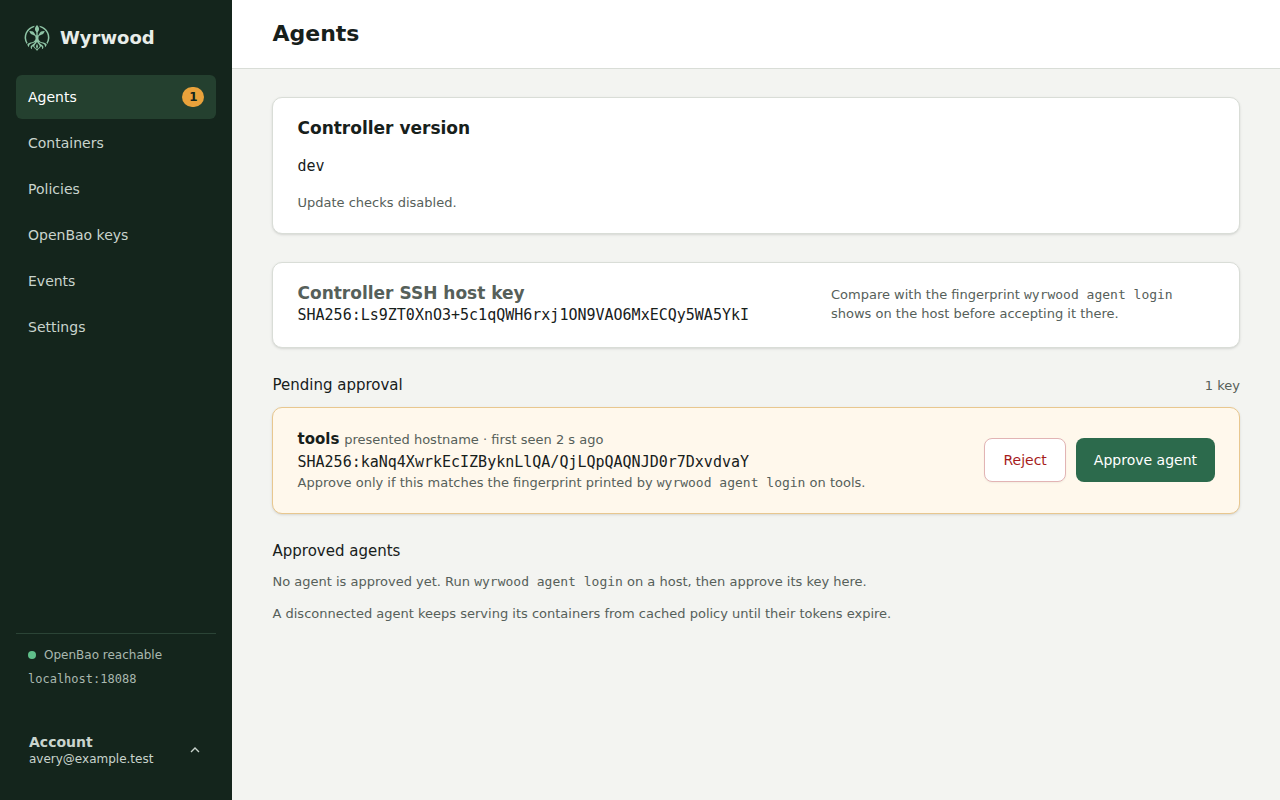
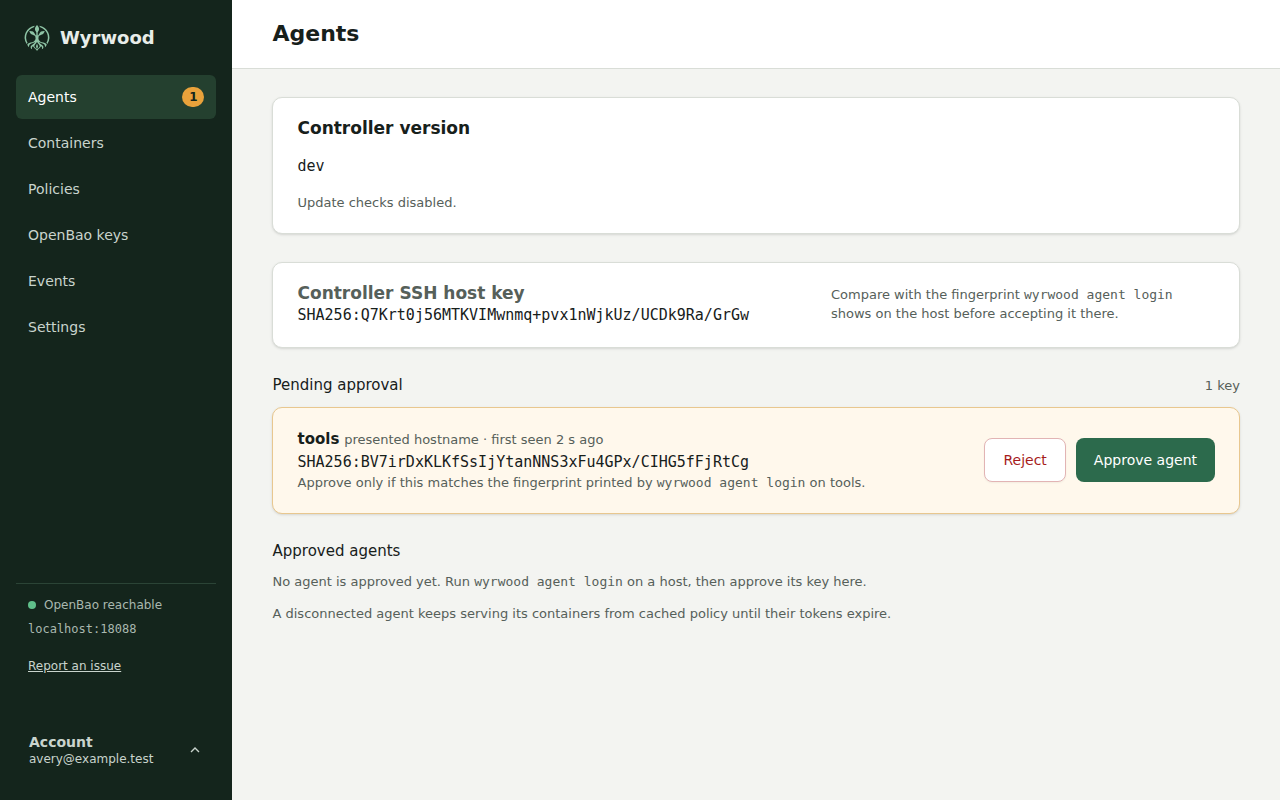
feat(web): add a Report an issue link to the sidebar
An operator can reach the GitHub new-issue form from every authenticated
page. The URL has no query data and the link sends no referrer, so that
no site value leaves through it.

Changed region(s): [[0.0, 0.75, 0.125, 0.875], [0.2812, 0.5625, 0.5938, 0.5938], [0.2812, 0.375, 0.5938, 0.4062]]

diff --git a/internal/web/frontend/src/app.test.tsx b/internal/web/frontend/src/app.test.tsx
@@ -162,6 +162,9 @@ describe("sign-in", () => {
       expect(form).toHaveAttribute("action", "/auth/start");
       expect(form).toHaveAttribute("method", "post");
       expect(screen.queryByRole("navigation")).not.toBeInTheDocument();
+      expect(
+        screen.queryByRole("link", { name: /Report an issue/ }),
+      ).not.toBeInTheDocument();
       if (Problem === "denied")
         expect(screen.getByText("sample@example.com")).toBeInTheDocument();
       if (Problem === "expired")
@@ -312,6 +315,59 @@ it("marks Security as the current menu item", async () => {
     "aria-current",
     "page",
   );
+});
+
+const agentsPage: Page = {
+  page: "agents",
+  data: {
+    ...layout,
+    ...versionInfo,
+    HostKey: "sample-fingerprint",
+    PendingKeys: null,
+    Approved: null,
+  },
+};
+describe("Report an issue link", () => {
+  it("goes to the GitHub form with no site data, in a new tab", () => {
+    draw(agentsPage);
+    const nav = screen.getByRole("navigation", { name: "Primary" });
+    const link = within(nav).getByRole("link", {
+      name: "Report an issue (opens GitHub in a new tab)",
+    });
+    expect(link.getAttribute("href")).toBe(
+      "https://github.com/wyrd-company/wyrwood/issues/new",
+    );
+    expect(link).toHaveAttribute("target", "_blank");
+    expect(link.getAttribute("rel")).toBe("noopener noreferrer");
+    expect(link.parentElement).toHaveClass("nav-foot");
+  });
+
+  it("shows on the confirm page", () => {
+    draw({
+      page: "confirm",
+      data: {
+        ...layout,
+        Heading: "Sample",
+        Body: "Sample",
+        Action: "/sample",
+        Button: "Sample",
+        Danger: false,
+        Back: "/agents",
+      },
+    });
+    expect(
+      screen.getByRole("link", { name: /Report an issue/ }),
+    ).toBeInTheDocument();
+  });
+
+  it("is reachable by keyboard", async () => {
+    const user = userEvent.setup();
+    draw(agentsPage);
+    const link = screen.getByRole("link", { name: /Report an issue/ });
+    for (let stop = 0; stop < 20 && document.activeElement !== link; stop += 1)
+      await user.tab();
+    expect(link).toHaveFocus();
+  });
 });
 
 const openBaoURL =

diff --git a/internal/web/frontend/src/components/sidebar.tsx b/internal/web/frontend/src/components/sidebar.tsx
@@ -20,6 +20,9 @@ export function Brand() {
     </a>
   );
 }
+// The new-issue form takes no query data, so that no site value leaves through
+// this link.
+const reportIssueURL = "https://github.com/wyrd-company/wyrwood/issues/new";
 export function Sidebar({ data }: { data: Layout }) {
   return (
     <nav className="nav" aria-label="Primary">
@@ -62,6 +65,10 @@ export function Sidebar({ data }: { data: Layout }) {
           </span>
         )}
         <span className="mono">{data.Controller}</span>
+        <a href={reportIssueURL} target="_blank" rel="noopener noreferrer">
+          Report an issue{" "}
+          <span className="visually-hidden">(opens GitHub in a new tab)</span>
+        </a>
       </div>
       <Account data={data} />
     </nav>

diff --git a/internal/web/frontend/src/style.css b/internal/web/frontend/src/style.css
@@ -187,6 +187,17 @@ p {
   font-size: 12px;
   color: var(--nav-quiet);
 }
+.nav-foot a {
+  min-height: 44px;
+  display: inline-flex;
+  align-items: center;
+  align-self: flex-start;
+  color: var(--nav-ink);
+  text-decoration: underline;
+}
+.nav-foot a:hover {
+  color: #ffffff;
+}
 .dot {
   display: inline-block;
   width: 8px;

diff --git a/internal/web/web_test.go b/internal/web/web_test.go
@@ -424,8 +424,35 @@ func TestOpenBaoUILinksFollowConfiguration(t *testing.T) {
 	other := browser(t)
 	absent.signIn(t, other, operator, oidctest.TamperNone)
 	for _, path := range []string{"/agents", "/policies/edit"} {
-		if body := get(t, other, absent.site.URL+path).body; strings.Contains(body, "OpenBao UI") || strings.Contains(body, `target="_blank"`) {
+		body := strings.ReplaceAll(get(t, other, absent.site.URL+path).body, reportIssueAnchor, "")
+		if strings.Contains(body, "OpenBao UI") || strings.Contains(body, `target="_blank"`) {
 			t.Fatalf("%s shows OpenBao UI link without ui-url: %s", path, body)
+		}
+	}
+}
+
+const reportIssueAnchor = `<a href="https://github.com/wyrd-company/wyrwood/issues/new" target="_blank" rel="noopener noreferrer">`
+
+func TestReportIssueLinkOnEveryAuthenticatedPageOnly(t *testing.T) {
+	harness := startHarness(t, time.Hour)
+	anonymous := browser(t)
+	signIn := get(t, anonymous, harness.site.URL+"/sign-in")
+	if !strings.Contains(signIn.body, "Continue with Test ID") {
+		t.Fatalf("sign-in page = %s", signIn.body)
+	}
+	if strings.Contains(signIn.body, "Report an issue") || strings.Contains(signIn.body, "/issues/new") {
+		t.Fatalf("sign-in page shows the report link: %s", signIn.body)
+	}
+
+	client := browser(t)
+	harness.signIn(t, client, operator, oidctest.TamperNone)
+	for _, path := range []string{"/agents", "/containers", "/policies", "/policies/edit", "/keys", "/events", "/settings", "/security"} {
+		result := get(t, client, harness.site.URL+path)
+		if !strings.HasSuffix(result.url, path) {
+			t.Fatalf("%s landed on %s", path, result.url)
+		}
+		if strings.Count(result.body, reportIssueAnchor) != 1 || strings.Count(result.body, "/issues/new") != 1 {
+			t.Fatalf("%s report link is not the one exact anchor: %s", path, result.body)
 		}
 	}
 }

diff --git a/docs/user/operations.md b/docs/user/operations.md
@@ -29,6 +29,7 @@ behind a reverse proxy that terminates TLS.
 | **Settings** | Inspect effective controller configuration loaded at startup. |
 | **Events** | Read the controller's operational history. |
 | **Account → Security** | Inspect sign-in details and end operator sessions. |
+| **Report an issue** | Open the GitHub form for a new Wyrwood issue in a new tab. The link sends no data about your site. |
 
 Follow [Getting started](getting-started.md) for agent approval, policy creation,
 and container binding with screenshots.

diff --git a/.intentional/intents/clear-falcon-b3ee.md b/.intentional/intents/clear-falcon-b3ee.md
@@ -1,0 +1,5 @@
+---
+wyrwood: minor
+---
+
+Add a Report an issue link to the sidebar foot of the web interface. It opens the GitHub new-issue form in a new tab and sends no data about your site.

diff --git a/.intentional/intents/amber-panda-f108.md b/.intentional/intents/amber-panda-f108.md
@@ -1,0 +1,5 @@
+---
+wyrwood-docs: patch
+---
+
+Describe the Report an issue link in the operations guide.
